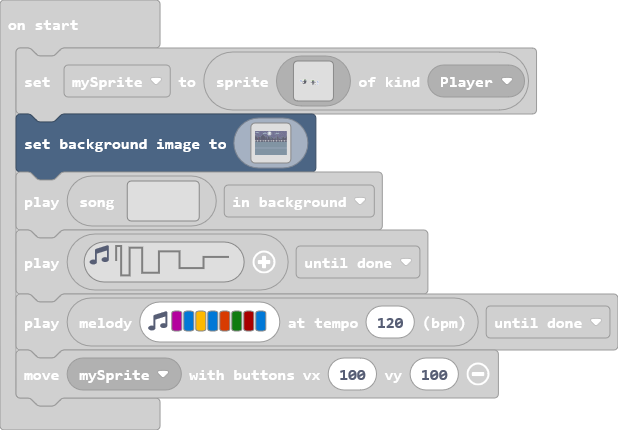
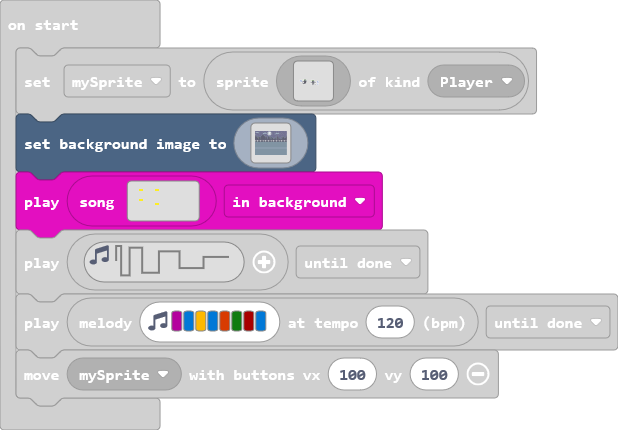
Update main.blocks, main.ts

Changed region(s): [[0.0, 0.393, 0.6456, 0.5744]]

diff --git a/main.ts b/main.ts
@@ -81,17 +81,17 @@ scene.setBackgroundImage(img`
[15 lines of base64/hex data omitted]
-    ffcfffcffffffff3fbffffffffffbffffffffffffffffffffffbffffffffbbfffffffffffffbffffffffffffffffbffffffffbffffffbbfffffffffbffffffffbbffffbbffffffffffffffffffffffff
[4 lines of base64/hex data omitted]
+    ffcfffcffffffff2fbffffffffffbffffffffffffffffffffffbffffffffbbfffffffffffffbffffffffffffffffbffffffffbffffffbbfffffffffbffffffffbbffffbbffffffffffffffffffffffff
[1 lines of base64/hex data omitted]
     ffffffffffffffffffffffffffffffffffffffffffffffffffffffffffffffffffffffffffffffffffffffffffffffffffffffffffffbbfffffffffbffffffffffffffffffffffffffffffffffffffff
     ffffffffffffffffffffffffffffffffffffffffffffffffffffffffffffffffffffffffffffffffffffffffffffffffffffffffffffffffffffffffffffffffffffffffffffffffffffffffffffffff
@@ -110,7 +110,7 @@ scene.setBackgroundImage(img`
     bbbbbbbbbbbbbbbbbbbbbbbbbbbbbbbbbbbbbbbbbbbbbbbbbbbbbbbbbbbbbbbbbbbbbbbbbbbbbbbbbbbbbbbbbbbbbbbbbbbbbbbbbbbbbbbbbbbbbbbbbbbbbbbbbbbbbbbbbbbbbbbbbbbbbbbbbbbbbbbb
     bbbbbbbbbbbbbbbbbbbbbbbbbbbbbbbbbbbbbbbbbbbbbbbbbbbbbbbbbbbbbbbbbbbbbbbbbbbbbbbbbbbbbbbbbbbbbbbbbbbbbbbbbbbbbbbbbbbbbbbbbbbbbbbbbbbbbbbbbbbbbbbbbbbbbbbbbbbbbbbb
     bbbbbbbbbbbbbbbbbbbbbbbbbbbbbbbbbbbbbbbbbbbbbbbbbbbbbbbbbbbbbbbbbbbbbbbbbbbbbbbbbbbbbbbbbbbbbbbbbbbbbbbbbbbbbbbbbbbbbbbbbbbbbbbbbbbbbbbbbbbbbbbbbbbbbbbbbbbbbbbb
-    bbbbbbbbbbbbbbbbbbbbbbbbbbbbbbbbbbbbbbbbbbbbbbbbbbbbbbbbbbbbbbbbbbbbbbbbbbbbbbbbbbbbbbbbbbbbbbbbbbbbbbbbbbbbbbbbbbbbbbbbbbbbbbbbbbbbbbbbbbbbbbbbbbbbbbbbbbbbbbbb
+    bbbbbbbbbbbbbbbbbbbbbbbbbbbbbbbbbbbbbbbbbbbbbbbbbbbbbbbbbbbbbbbbbbbbbbbbbbbbbbbbbbbbbbbbbbbbbbbbbbbbbbbbbbbbbbbbbbbbbbbbbbbbbbbbbbbbbbbbbbbbbbbbbbbbbbbbbb2bbbbb
     bbbbbbbbbbbbbbbbbbbbbbbbbbbbbbbbbbbbbbbbbbbbbbbbbbbbbbbbbbbbbbbbbbbbbbbbbbbbbbbbbbbbbbbbbbbbbbbbbbbbbbbbbbbbbbbbbbbbbbbbbbbbbbbbbbbbbbbbbbbbbbbbbbbbbbbbbbbbbbbb
     bbbbbbbbbbbbbbbbbbbbbbbbbbbbbbbbbbbbbbbbbbbbbbbbbbbbbbbbbbbbbbbbbbbbbbbbbbbbbbbbbbbbbbbbbbbbbbbbbbbbbbbbbbbbbbbbbbbbbbbbbbbbbbbbbbbbbbbbbbbbbbbbbbbbbbbbbbbbbbbb
     bbbbbbbbbbbbbbbbbbbbbbbbbbbbbbbbbbbbbbbbbbbbbbbbbbbbbbbbbbbbbbbbbbbbbbbbbbbbbbbbbbbbbbbbbbbbbbbbbbbbbbbbbbbbbbbbbbbbbbbbbbbbbbbbbbbbbbbbbbbbbbbbbbbbbbbbbbbbbbbb
@@ -172,7 +172,7 @@ scene.setBackgroundImage(img`
     bbbbbbbbbbbbbbbbbbbbbbbbbbbbbbbbbbbbbbbbbbbbbbbbbbbbbbbbbbbbbbbbbbbbbbbbbbbbbbbbbbbbbbbbbbbbbbbbbbbbbbbbbbbbbbbbbbbbbbbbbbbbbbbbbbbbbbbbbbbbbbbbbbbbbbbbbbbbbbbb
     bbbbbbbbbbbbbbbbbbbbbbbbbbbbbbbbbbbbbbbbbbbbbbbbbbbbbbbbbbbbbbbbbbbbbbbbbbbbbbbbbbbbbbbbbbbbbbbbbbbbbbbbbbbbbbbbbbbbbbbbbbbbbbbbbbbbbbbbbbbbbbbbbbbbbbbbbbbbbbbb
     `)
-music.play(music.createSong(hex`00780004080200`), music.PlaybackMode.InBackground)
[1 lines of base64/hex data omitted]
 music.play(music.createSoundEffect(WaveShape.Square, 5000, 1, 255, 0, 575, SoundExpressionEffect.None, InterpolationCurve.Logarithmic), music.PlaybackMode.UntilDone)
 music.play(music.stringPlayable("C E A E B G C5 E ", 120), music.PlaybackMode.UntilDone)
 controller.moveSprite(mySprite, 100, 100)
